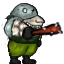
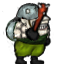
Added animations to GFSoldier

diff --git a/SharedClasses/GFSoldier.m b/SharedClasses/GFSoldier.m
@@ -13,6 +13,7 @@
 
 FPTextureArray *soldierTexture = nil;
 FPTextureArray *attackTexture = nil;
+FPTextureArray *deathTexture = nil;
 
 const float soldierSize = 64.0f;
 
@@ -33,6 +34,12 @@ const float soldierSize = 64.0f;
         attackTexture = [[FPTextureArray alloc] init];
         [attackTexture addTexture:@"DH_01.png"];
         [attackTexture addTexture:@"DH_02.png"];
+        [attackTexture addTexture:@"DH_03.png"];
+        
+        deathTexture = [[FPTextureArray alloc] init];
+        [deathTexture addTexture:@"DD_01.png"];
+        [deathTexture addTexture:@"DD_02.png"];
+        [deathTexture addTexture:@"DD_03.png"];
 	}
 	return [soldierTexture textureAtIndex:3];
 }
@@ -53,9 +60,11 @@ const float soldierSize = 64.0f;
 		moveX = 0.0f;
 		moveY = 0.0f;
         isAttacking = NO;
+        isDying = NO;
 		isVisible = YES;
         moveCounter = 3;
         attackCounter = 0;
+        dieCounter = 0;
         animationCounter = 0;
         leftOriented = NO;
 	}
@@ -121,7 +130,7 @@ const float soldierSize = 64.0f;
     float oldX = x;
     float oldY = y;
     
-    float moveSpeed = 3.6f;
+    float moveSpeed = 3.0f;
     
     FPPlayer *player = (FPPlayer *)[game player];
     CGRect playerRect = [player rect];
@@ -134,17 +143,38 @@ const float soldierSize = 64.0f;
     
     BOOL isCollidingWithPlayer = NO;
     
-    if (CGRectIntersectsRect(attackRect, playerRect))
+    if (!isDying && CGRectIntersectsRect(attackRect, playerRect))
+    {
+        if (player.falling && playerRect.origin.y + playerRect.size.height - 10.0f < y)
+        {
+            isDying = YES;
+            player.moveY = -player.moveY;
+        }
+        
         isCollidingWithPlayer = YES;
+
+    }
     
-    if (isAttacking)
+    if (isDying)
+    {
+        animationCounter += 0.6f;
+        y += 1.8f;
+        
+        if (animationCounter > 5)
+        {
+            if (++dieCounter >= [deathTexture count])
+                dieCounter = (int)[deathTexture count] - 1;
+            animationCounter = 0;  
+        }
+    }
+    else if (isAttacking)
     {
         if (player.x < self.x)
             leftOriented = YES;
         else
             leftOriented = NO;
         
-        animationCounter += 0.4f;
+        animationCounter += 0.6f;
         
         if (animationCounter > 5)
         {
@@ -320,7 +350,7 @@ const float soldierSize = 64.0f;
 	glPushMatrix();
     if (leftOriented)
     {
-        if (isAttacking && attackCounter == 1)
+        if (isAttacking && attackCounter == 2)
             glTranslatef(x + soldierSize - 7.0f, y, 0.0f);
         else
             glTranslatef(x + soldierSize, y, 0.0f);
@@ -328,13 +358,15 @@ const float soldierSize = 64.0f;
     }
     else
     {
-        if (isAttacking && attackCounter == 1)
+        if (isAttacking && attackCounter == 2)
             glTranslatef(x + 7.0f, y, 0.0f);
         else
             glTranslatef(x, y, 0.0f);
         glScalef(1.0f, 1.0f, 1);
     }
-    if (isAttacking)
+    if (isDying)
+        [[deathTexture textureAtIndex:dieCounter] draw];
+    else if (isAttacking)
         [[attackTexture textureAtIndex:attackCounter] draw];
     else
         [[soldierTexture textureAtIndex:moveCounter] draw];

diff --git a/SharedClasses/FPPlayer.h b/SharedClasses/FPPlayer.h
@@ -47,6 +47,7 @@ extern const int maxSpeedUpCount;
 
 @property (readwrite, assign) float moveX, moveY, alpha;
 @property (readwrite, assign) int speedUpCounter;
+@property (readonly) BOOL falling;
 
 + (void)resetTextures;
 - (id)initWithWidth:(float)aWidth height:(float)aHeight;

diff --git a/SharedClasses/GFSoldier.h b/SharedClasses/GFSoldier.h
@@ -13,11 +13,13 @@
 	float x, y;
 	float moveX, moveY;
     
+    BOOL isDying;
     BOOL isAttacking;
 	BOOL isVisible;
     
     int moveCounter;
     int attackCounter;
+    int dieCounter;
     float animationCounter;
     BOOL leftOriented;
 }

diff --git a/SharedClasses/FPPlayer.m b/SharedClasses/FPPlayer.m
@@ -247,6 +247,10 @@ const float playerSize = 64.0f;
     }
 }
 
+- (BOOL)falling
+{
+    return moveY < 0.0f && jumping;
+}
 
 - (BOOL)collisionLeftRight:(id<FPGameProtocol>)game
 {
